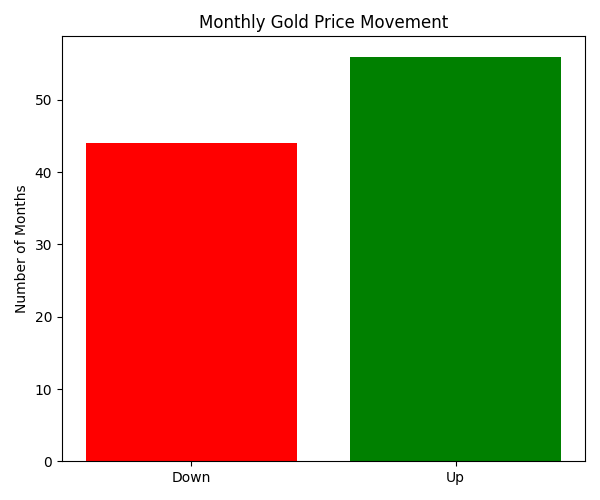
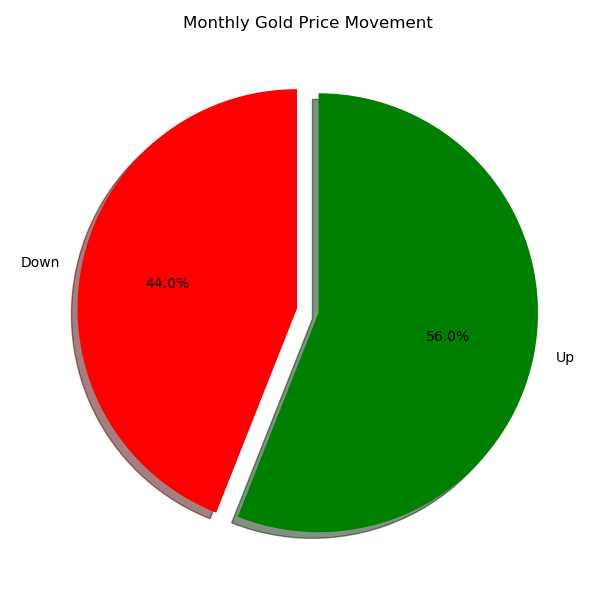
finished

diff --git a/calculations.py b/calculations.py
@@ -45,8 +45,13 @@ oil_to_cpi = [o / c for o, c in zip(oil, cpi)]
 # === WRITE FIRST 20 PRICE/CPI RATIO ROWS ===
 with open("calculations_output.txt", "a") as f:
     f.write("Price-to-CPI Ratios (First 20 Rows):\n")
+    f.write("Date       BTC/CPI  SP500/CPI  Gold/CPI  Oil/CPI\n")
     for i in range(min(20, len(dates))):
-        f.write(f"{dates[i].strftime('%Y-%m')}: BTC/CPI={btc_to_cpi[i]:.2f}, SP500/CPI={sp_to_cpi[i]:.2f}, Gold/CPI={gold_to_cpi[i]:.2f}, Oil/CPI={oil_to_cpi[i]:.2f}\n")
+        f.write(f"{dates[i].strftime('%Y-%m')}  "
+                f"{btc_to_cpi[i]:8.2f}  "
+                f"{sp_to_cpi[i]:10.2f}  "
+                f"{gold_to_cpi[i]:9.2f}  "
+                f"{oil_to_cpi[i]:8.2f}\n")
 
 # === CORRELATION MATRIX ===
 data_matrix = np.array([btc, sp, gold, oil, cpi])
@@ -55,10 +60,9 @@ labels = ['btc', 'sp500', 'gold', 'oil', 'cpi']
 
 with open("calculations_output.txt", "a") as f:
     f.write("\nCorrelation Matrix:\n")
-    f.write('\t' + '\t'.join(labels) + '\n')
+    f.write("{:<8}".format("") + "".join(f"{label:<10}" for label in labels) + "\n")
     for i, row in enumerate(corr_matrix):
-        f.write(labels[i] + '\t' + '\t'.join(f"{val:.2f}" for val in row) + '\n')
-
+        f.write(f"{labels[i]:<8}" + "".join(f"{val:<10.2f}" for val in row) + "\n")
 # === GRAPH: Normalized Price-to-CPI (Log) ===
 plt.figure(figsize=(12, 6))
 plt.plot(dates, [x / btc_to_cpi[0] * 100 for x in btc_to_cpi], label='Bitcoin / CPI')
@@ -167,10 +171,16 @@ with open("calculations_output.txt", "a") as f:
     f.write(f"Months Gold Went DOWN: {change_counts['down']}\n")
 
 # === GRAPH: Gold Price Movement Bar Chart ===
-plt.figure(figsize=(6, 5))
-plt.bar(["Down", "Up"], [change_counts["down"], change_counts["up"]], color=["red", "green"])
+# === GRAPH: Gold Price Movement Pie Chart ===
+plt.figure(figsize=(6, 6))
+labels = ["Down", "Up"]
+sizes = [change_counts["down"], change_counts["up"]]
+colors = ["red", "green"]
+explode = (0.05, 0.05)  # Slightly separate both slices
+
+plt.pie(sizes, labels=labels, colors=colors, autopct='%1.1f%%',
+        startangle=90, explode=explode, shadow=True)
 plt.title("Monthly Gold Price Movement")
-plt.ylabel("Number of Months")
 plt.tight_layout()
 plt.savefig("gold_up_down_chart.png")
 plt.close()
